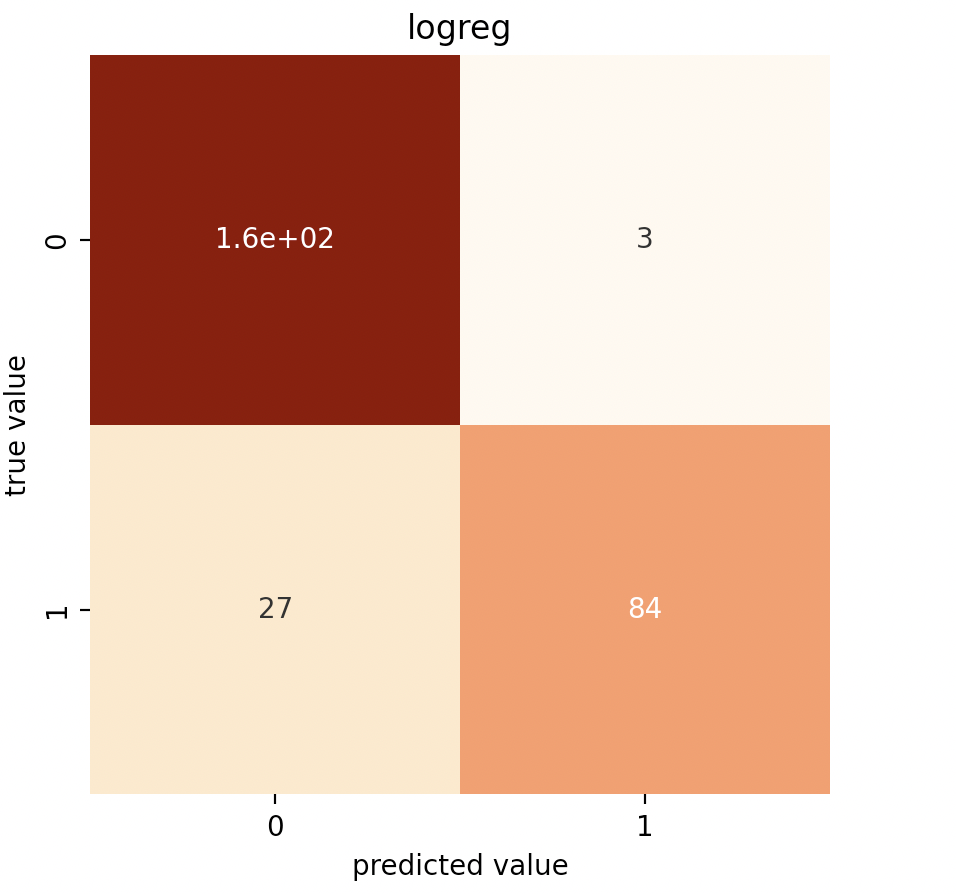
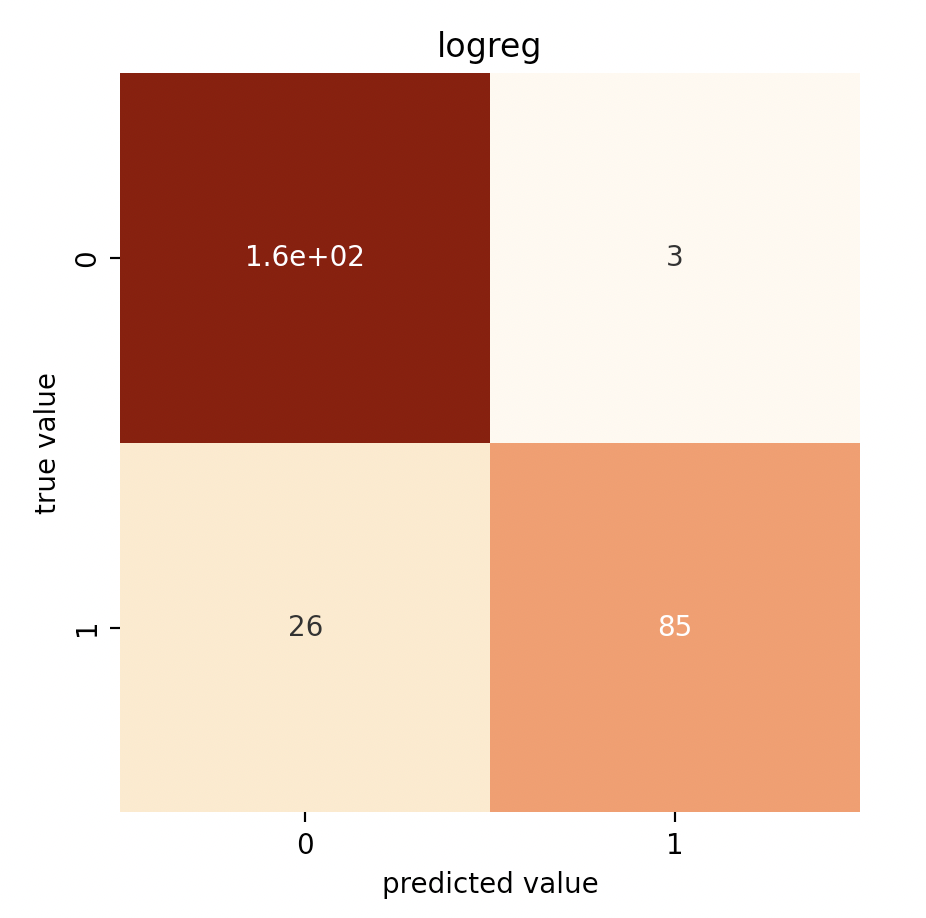
update notes

diff --git a/src/util/sc_feature_selection.py b/src/util/sc_feature_selection.py
@@ -35,7 +35,7 @@ def tune_rfe(estimator,num_features,n_folds,X,y):
    
     return scores,scores_std,scores_train,scores_std_train,num_features_selected
 
-def plot_tune(scores,scores_std,scores_train,scores_std_train,num_components,n_folds):
+def plot_tune(scores,scores_std,scores_train,scores_std_train,num_features,n_folds):
     '''
     Plotting function for the gridsearch.
     '''
@@ -43,27 +43,27 @@ def plot_tune(scores,scores_std,scores_train,scores_std_train,num_components,n_f
     fig, ax = plt.subplots()
     fig.set_size_inches(8, 6)
     
-    ax.plot(num_components, scores)
-    ax.plot(num_components, scores_train)
+    ax.plot(num_features, scores)
+    ax.plot(num_features, scores_train)
 
     std_error = scores_std / np.sqrt(n_folds)
-    ax.plot(num_components, scores + std_error, "b--")
-    ax.plot(num_components, scores - std_error, "b--")
+    ax.plot(num_features, scores + std_error, "b--")
+    ax.plot(num_features, scores - std_error, "b--")
 
     std_error_train = scores_std_train / np.sqrt(n_folds)
-    ax.plot(num_components, scores_train + std_error_train, linestyle=":", color='orange')
-    ax.plot(num_components, scores_train - std_error_train, linestyle=":",color='orange')
+    ax.plot(num_features, scores_train + std_error_train, linestyle=":", color='orange')
+    ax.plot(num_features, scores_train - std_error_train, linestyle=":",color='orange')
 
     # alpha=0.2 controls the translucency of the fill color
-    ax.fill_between(num_components, scores + std_error, scores - std_error, alpha=0.2)
-    ax.fill_between(num_components, scores_train + std_error_train, scores_train - std_error_train, alpha=0.2)
+    ax.fill_between(num_features, scores + std_error, scores - std_error, alpha=0.2)
+    ax.fill_between(num_features, scores_train + std_error_train, scores_train - std_error_train, alpha=0.2)
     plt.ylabel("CV score +/- std error")
-    plt.xlabel("Number of Components")
+    plt.xlabel("Number of Features")
     plt.axhline(np.max(scores), linestyle="--", color=".5")
     plt.axhline(np.max(scores_train), linestyle=":", color=".5")
-    plt.xlim([num_components[0], num_components[-1]])
+    plt.xlim([num_features[0], num_features[-1]])
 
-    plt.title("CV scores vs number of components used in PCR")
+    plt.title("CV scores vs number of features used")
     blue_patch = mpatches.Patch(color='blue', label='Training')
     orange_patch = mpatches.Patch(color='orange', label='Testing')
 

diff --git a/src/sc_logreg_ex.py b/src/sc_logreg_ex.py
@@ -63,21 +63,28 @@ def main():
     df = get_data()
     norm_cenrot_sym_diff,_ = get_categories(df)
 
-    print('Testing out [boxratio, interoc,interoc_norm,boxsize,boxsize/interoc]')
-    print('Partition 1 - Without feature selection')
-    without_f(df,main_predictors) 
-    print('Partition 1 - Feature selection')
-    num_features_selected = rec_feature_tune(df,main_predictors)
-    print('Partition 1 - With Feature selection')
-    rec_feature_select(df,main_predictors,num_features_selected)
-    
-    print('Testing out [norm_cenrot-]')
-    print('Partition 2 - Without feature selection')
-    without_f(df,norm_cols[0]) 
-    print('Partition 2 - Feature selection')
-    num_features_selected = rec_feature_tune(df,norm_cols[0])
-    print('Partition 2 - With Feature selection')
-    rec_feature_select(df,main_predictors,13)
+    # print('Testing out [boxratio, interoc,interoc_norm,boxsize,boxsize/interoc]')
+    # print('Partition 1 - Without feature selection')
+    # without_f(df,main_predictors) 
+    # print('Partition 1 - Feature selection')
+    # num_features_selected = rec_feature_tune(df,main_predictors)
+    # print('Partition 1 - With Feature selection')
+    # rec_feature_select(df,main_predictors,num_features_selected)
+    # print('Partition 1 - With Feature selection & downsampled')
+    # df_downsampled = downsample(df)
+    # rec_feature_select(df_downsampled,main_predictors,num_features_selected)
+
+    # print('Testing out [norm_cenrot-]')
+    # print('Partition 2 - Without feature selection')
+    # without_f(df,norm_cols[0]) 
+    # print('Partition 2 - Feature selection')
+    # num_features_selected = rec_feature_tune(df,norm_cols[0])
+    # print('Partition 2 - With Feature selection')
+    # rec_feature_select(df,main_predictors,num_features_selected)
+    # print('Partition 2 - With Feature selection & downsampled')
+    # df_downsampled = downsample(df)
+    # rec_feature_select(df_downsampled,main_predictors,num_features_selected)
+
 
     print('Testing out boxratio + specific eucdistances')
     df = get_data('data/merged_landmarks_dist.csv')

diff --git a/notes/sc_summary_logreg.md b/notes/sc_summary_logreg.md
@@ -6,42 +6,18 @@ More information about EDA, sampling methods attempted, hyper-parameter tuning, 
 ## Logistic Regression: Take 1
 One of our goals is to test out different forms of resampling to balance the data. We wanted to know if resampling would have a positive impact on model accuracy. We found that "downsampled" scores were consistently better (even if it reduced the accuracy rating by 0.1 or so, the recall scores greatly improved), so we can conclude that downsampling is a good strategy for this model. 
 
-In the spirit of simple models being the "best", the "one feature" model stood out to us as pretty good. For more information on how this model preformed with other groups of features, please see `notes/notes_logreg`.
+In the spirit of simple models being the "best", the "one feature" model stood out to us as pretty good. For more information on how this model preformed with other groups of features, please see `notes/notes_logreg`. We got to this model by using recursive feature selection to select the best (and minimum) number of features.
 
-If you really wanted recall scores to be even better, the "13 feature" model with the normalized & rotated coordinate data appears to be better than the just normalized coordinate data given the similarity in scores and great reduction of features. This provides good evidence that the preprocessing adjustments done to the data are worthwhile.
-
-In many of these instances, we did recursive/backward feature selection to select the best (and minimum) number of features. Espeically in the cases where we are using 66+ features, we found that using feature selection greatly improved both the accuracy and recall scores of our model. This is likely due to logistic regression preforming better with minimal colinearity. 
+Using other feature groups such as the `norm_cenrot` columns did not yeild very promising results. This could be due to coliniarity, given the nature of the data (too many similar coordinate points). 
 
 One feature (`['boxratio']`), downsampling:
 * Accuracy score: 0.88
 * Recall score adult: 0.90
 * Recall score baby: 0.85
 
-CV to tune optimal features:
-
-<img src="soph_logreg/p1_f_cv.png" width=600>
-
 Confusion matrix:
 
 <img src="soph_logreg/p1_fd_cmat.png" width=600>
-
-66 features (normalized coord data), downsampling:
-* Accuracy score: 0.94
-* Recall score adult: 0.92
-* Recall score baby: 0.96
-
-13 features (normalized & rotated coord data), downsampling:
-* Accuracy score: 0.94
-* Recall score adult: 0.92
-* Recall score baby: 0.96
-
-CV to tune optimal features:
-
-<img src="soph_logreg/p5_f_cv.png" width=600>
-
-Confusion matrix:
-
-<img src="soph_logreg/p4_fd_cmat.png" width=600>
 
 ## Logistic Regression: Take 2
 Inspired by our sucess with using `boxratio` (ratio between the width and height of the head) as a single predictor, we had the idea of trying to identify more "distances" between facial features that could help classify adults vs infants.

diff --git a/notes/sc_notes_logreg.md b/notes/sc_notes_logreg.md
@@ -32,10 +32,10 @@ Confusion matrix:
 <img src="soph_logreg/p1_nf_cmat.png" width=600>
 
 With feature selection:
-* Optimal features is 2
+* Optimal features is 1
 * Accuracy score: .89
 * Recall score adult: 0.98
-* Recall score baby: 0.76
+* Recall score baby: 0.77
 
 CV to tune optimal features:
 
@@ -46,51 +46,48 @@ Confusion matrix:
 <img src="soph_logreg/p1_f_cmat.png" width=600>
 
 With feature selection & downsampling:
-* Optimal features is 2 (unchanged)
 * Accuracy score: 0.88
 * Recall score adult: 0.90
-* Recall score baby: 0.86
+* Recall score baby: 0.85
 
 Confusion matrix:
 
 <img src="soph_logreg/p1_fd_cmat.png" width=600>
 
 **Partition 2: The "norm_cenrot" column**
-This partition was pretty strong even before feature selection (is overfitting a possibility? It is a lot of features).
+This partition was pretty strong even before feature selection (is overfitting a possibility? It is a lot of features). After feature selection the acurracy score was only ok (perhaps did not eliminate enough of the colinearity), and the score really dropped after downsampling (perhaps not enough data).
 
 Without feature selection:
 * Accuracy score: 0.96
-* Recall score adult: 0.98
-* Recall score baby: 0.95
+* Recall score adult: 1.00
+* Recall score baby: 0.77
 
 Confusion matrix:
 
-<img src="soph_logreg/p4_nf_cmat.png" width=600>
+<img src="soph_logreg/p2_nf_cmat.png" width=600>
 
 With feature selection:
 * Optimal features is 29
-  * It is choosing 29, but after observing the CV plot I think it really levels off around ...
-* Accuracy score: .95
-* Recall score adult: 0.98
-* Recall score baby: 0.91
+* Accuracy score: .76
+* Recall score adult: 0.84
+* Recall score baby: 0.65
 
 CV to tune optimal features:
 
-<img src="soph_logreg/p4_f_cv.png" width=600>
+<img src="soph_logreg/p2_f_cv.png" width=600>
 
 Confusion matrix:
 
-<img src="soph_logreg/p4_f_cmat.png" width=600>
+<img src="soph_logreg/p2_f_cmat.png" width=600>
 
 With feature selection & downsampling:
-* Optimal features is 66
-* Accuracy score: 0.94
-* Recall score adult: 0.92
-* Recall score baby: 0.96
+* Accuracy score: 0.61
+* Recall score adult: 0.44
+* Recall score baby: 0.81
 
 Confusion matrix:
 
-<img src="soph_logreg/p4_fd_cmat.png" width=600>
+<img src="soph_logreg/p2_fd_cmat.png" width=600>
 
 ## Reproduce Results
 To reproduce the results from these notes run:

diff --git a/feature_selection.md b/feature_selection.md
@@ -8,6 +8,6 @@ For example, logistic regression models need little to no multicollinearity in o
 To see how our logistic regression model preformed with backward feature selection, refer to `logreg.md` for a summary and `notes\sc_notes_logreg.md` for a detailed comparison. We consistantly observed higher recall and accuracy scores using backward feature selection. 
 
 ## Forward Feature Selection
-Part of our exploration involved calculating all of the euclidian-pairwise distances (see `preprocessing.md` for details). Since we have 67 (x,y) points, this clearly creates a lot of additional features (about x2 as many features than datapoints). Backward feature seleciton wont work here for this reason, so we turned to another method: Forward Feature Selection. Forward feature selection starts with no features, and adds features to the model one by one until a new variable does not add to the improvement of the model.
+Part of our exploration involved calculating all of the euclidian-pairwise distances (see `preprocessing.md` for details). Since we have 67 (x,y) points, this clearly creates a lot of additional features (about x2 as many features than datapoints). Recursive feature seleciton wont work here for this reason, so we turned to another method: Forward Feature Selection. Forward feature selection starts with no features, and adds features to the model one by one until a new variable does not add to the improvement of the model.
 
 For our logistic regression model, we decided to manually try 1, 2, 3, 4, 5, 6, and 7 features (as it starts taking a long time with 10+ features to consider). We got a steady improvement until around 4 features. Please see `sc_notes_dist_logreg.md` for details. 
